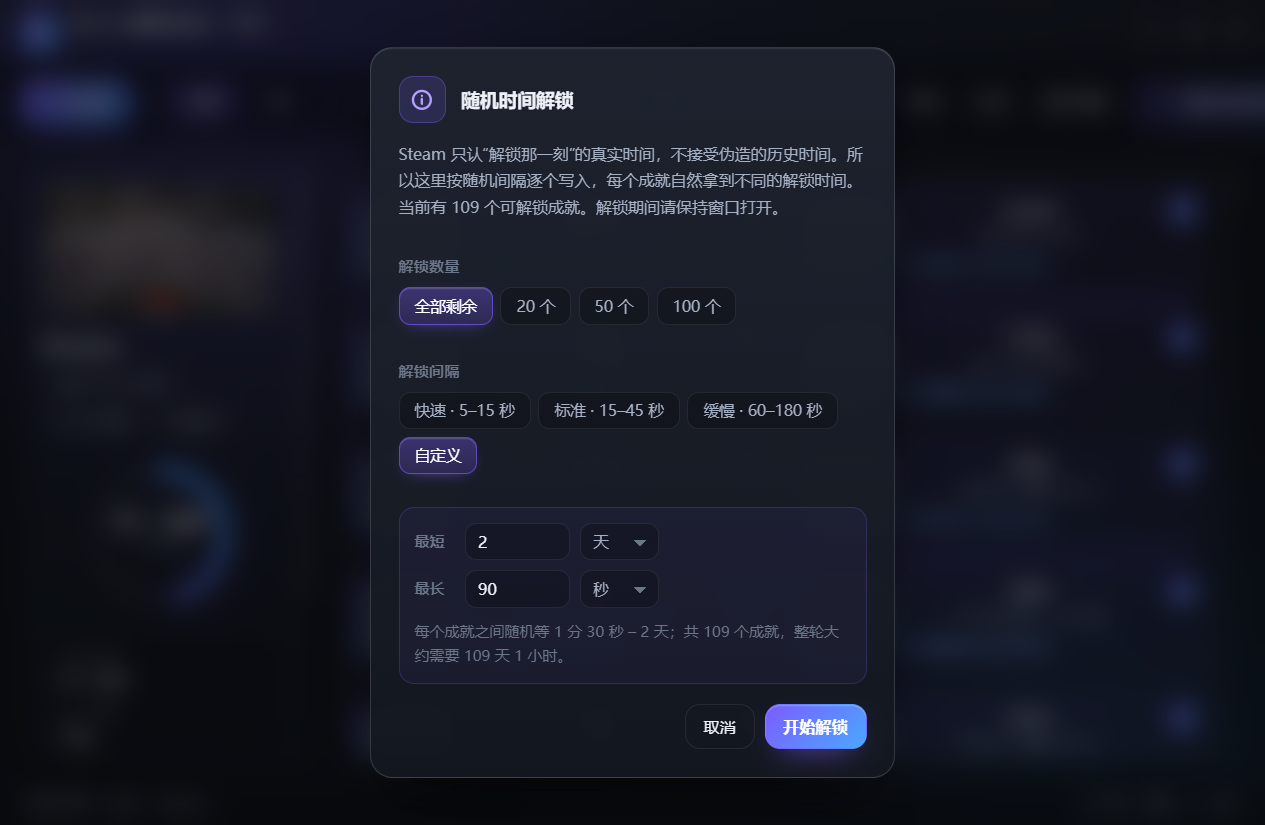
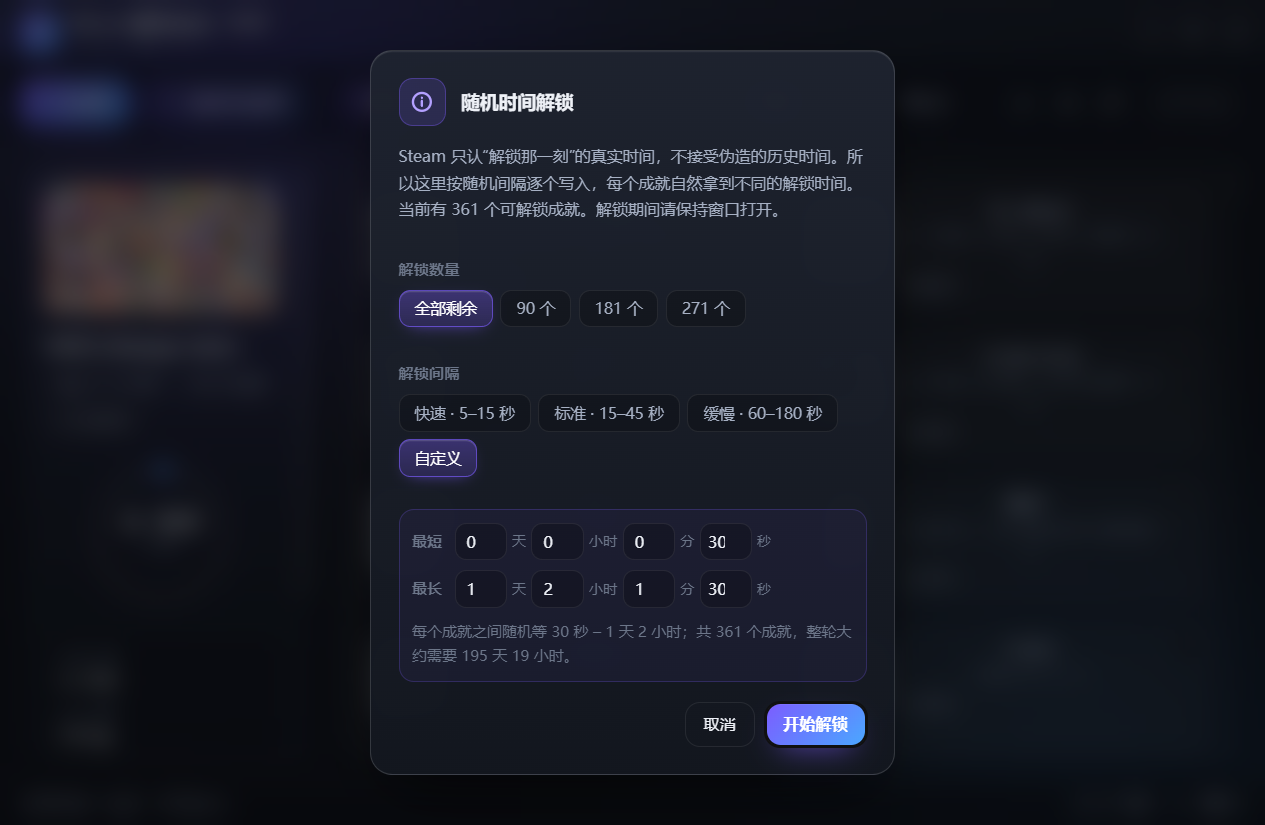
feat: 解锁数量改为剩余数的 1/4、1/2、3/4，自定义间隔改为天/小时/分/秒四段输入

diff --git a/ui/app.js b/ui/app.js
@@ -1202,12 +1202,21 @@
 
   /* ---------- 随机时间解锁 ---------- */
 
-  var RANDOM_COUNTS = [
-    { value: 0, label: '全部剩余' },
-    { value: 20, label: '20 个' },
-    { value: 50, label: '50 个' },
-    { value: 100, label: '100 个' }
-  ];
+  // 解锁数量：全部剩余，以及剩余数的 1/4、2/4、3/4（只显示数字，不显示分数）
+  function countOptions(available) {
+    var out = [{ value: 0, label: '全部剩余' }];
+    var fracs = [0.25, 0.5, 0.75];
+    var seen = { 0: true };
+    for (var i = 0; i < fracs.length; i++) {
+      var n = Math.round(available * fracs[i]);
+      if (n < 1) n = 1;
+      if (n >= available) continue;
+      if (seen[n]) continue;
+      seen[n] = true;
+      out.push({ value: n, label: n + ' 个' });
+    }
+    return out;
+  }
 
   var RANDOM_GAPS = [
     { label: '快速 · 5–15 秒', min: 5, max: 15 },
@@ -1216,22 +1225,28 @@
     { label: '自定义', custom: true }
   ];
 
-  // 自定义间隔的单位：天 / 小时 / 秒
-  var GAP_UNITS = [
-    { unit: 86400, label: '天' },
-    { unit: 3600, label: '小时' },
-    { unit: 1, label: '秒' }
+  // 自定义间隔按「天 / 小时 / 分钟 / 秒」四个输入框填写
+  var GAP_PARTS = [
+    { key: 'd', label: '天', unit: 86400, max: 7 },
+    { key: 'h', label: '小时', unit: 3600, max: 23 },
+    { key: 'm', label: '分', unit: 60, max: 59 },
+    { key: 's', label: '秒', unit: 1, max: 59 }
   ];
 
   var GAP_MAX_SECONDS = 7 * 86400;
 
-  function unitOptions(defaultUnit) {
+  // 把秒数拆成 天 / 小时 / 分 / 秒 四个输入框的初始值
+  function gapPartIndex(seconds) {
+    var s = Math.max(0, Math.round(seconds || 0));
     var out = [];
-    for (var i = 0; i < GAP_UNITS.length; i++) {
-      out.push('<option value="' + GAP_UNITS[i].unit + '"' +
-        (GAP_UNITS[i].unit === defaultUnit ? ' selected' : '') + '>' + GAP_UNITS[i].label + '</option>');
+    for (var i = 0; i < GAP_PARTS.length; i++) {
+      var p = GAP_PARTS[i];
+      var v = Math.floor(s / p.unit);
+      if (v > p.max) v = p.max;
+      s -= v * p.unit;
+      out.push(v);
     }
-    return out.join('');
+    return out;
   }
 
   function fmtGap(seconds) {
@@ -1309,22 +1324,32 @@
       return h.join('');
     }
 
-    parts.push(groupHtml('count', '解锁数量', RANDOM_COUNTS));
+    var counts = countOptions(available);
+
+    parts.push(groupHtml('count', '解锁数量', counts));
     parts.push(groupHtml('gap', '解锁间隔', RANDOM_GAPS));
 
-    // 自定义间隔：最小与最大各一个数字 + 单位（天 / 小时 / 秒）
+    // 自定义间隔：最短 / 最长各填 天、小时、分、秒 四个数字
+    function gapRowHtml(cap, rolePrefix, seconds) {
+      var vs = gapPartIndex(seconds);
+      var h = ['<div class="gap-custom__row">'];
+      h.push('<span class="gap-custom__cap">' + cap + '</span>');
+      for (var i = 0; i < GAP_PARTS.length; i++) {
+        var p = GAP_PARTS[i];
+        h.push('<label class="gap-custom__field">');
+        h.push('<input class="gap-custom__num" type="number" min="0" max="' + p.max + '" step="1" value="' + vs[i] +
+          '" data-role="' + rolePrefix + p.key + '" aria-label="' + cap + p.label + '" />');
+        h.push('<span class="gap-custom__suffix">' + p.label + '</span>');
+        h.push('</label>');
+      }
+      h.push('</div>');
+      return h.join('');
+    }
+
     parts.push('<div class="gap-custom" data-role="customGap" hidden>');
-    parts.push('<div class="gap-custom__row">');
-    parts.push('<span class="gap-custom__cap">最短</span>');
-    parts.push('<input class="gap-custom__num" type="number" min="1" max="9999" step="1" value="30" data-role="gapMin" aria-label="最短间隔" />');
-    parts.push('<select class="gap-custom__unit" data-role="gapMinUnit" aria-label="最短间隔单位">' + unitOptions(1) + '</select>');
-    parts.push('</div>');
-    parts.push('<div class="gap-custom__row">');
-    parts.push('<span class="gap-custom__cap">最长</span>');
-    parts.push('<input class="gap-custom__num" type="number" min="1" max="9999" step="1" value="90" data-role="gapMax" aria-label="最长间隔" />');
-    parts.push('<select class="gap-custom__unit" data-role="gapMaxUnit" aria-label="最长间隔单位">' + unitOptions(1) + '</select>');
-    parts.push('</div>');
-    parts.push('<p class="gap-custom__hint" data-role="gapHint">每个成就之间随机等 30 – 90 秒，合计最少约 30 秒。</p>');
+    parts.push(gapRowHtml('最短', 'gapMin', 30));
+    parts.push(gapRowHtml('最长', 'gapMax', 90));
+    parts.push('<p class="gap-custom__hint" data-role="gapHint"></p>');
     parts.push('</div>');
 
     parts.push('<div class="modal__foot">');
@@ -1336,11 +1361,33 @@
     var prevFocus = document.activeElement;
 
     var customBox = el.querySelector('[data-role="customGap"]');
-    var numMin = el.querySelector('[data-role="gapMin"]');
-    var numMax = el.querySelector('[data-role="gapMax"]');
-    var unitMin = el.querySelector('[data-role="gapMinUnit"]');
-    var unitMax = el.querySelector('[data-role="gapMaxUnit"]');
     var gapHint = el.querySelector('[data-role="gapHint"]');
+    var minInputs = [];
+    var maxInputs = [];
+    for (var pi = 0; pi < GAP_PARTS.length; pi++) {
+      minInputs.push(el.querySelector('[data-role="gapMin' + GAP_PARTS[pi].key + '"]'));
+      maxInputs.push(el.querySelector('[data-role="gapMax' + GAP_PARTS[pi].key + '"]'));
+    }
+
+    function readParts(inputs) {
+      var total = 0;
+      for (var i = 0; i < GAP_PARTS.length; i++) {
+        var v = Number(inputs[i] && inputs[i].value);
+        if (!isFinite(v) || v < 0) v = 0;
+        v = Math.floor(Math.min(v, GAP_PARTS[i].max));
+        total += v * GAP_PARTS[i].unit;
+      }
+      return total;
+    }
+
+    function readCustom() {
+      var lo = readParts(minInputs);
+      var hi = readParts(maxInputs);
+      if (hi < lo) { var t = lo; lo = hi; hi = t; }
+      lo = Math.max(1, Math.min(GAP_MAX_SECONDS, lo));
+      hi = Math.max(lo, Math.min(GAP_MAX_SECONDS, hi));
+      return { minGap: lo, maxGap: hi, gapMid: Math.round((lo + hi) / 2) };
+    }
 
     function syncCustom() {
       if (!customBox) return;
@@ -1349,24 +1396,11 @@
       if (!isCustom) return;
       var lo = readCustom();
       if (gapHint) {
-        var picked = RANDOM_COUNTS[sel.count] || RANDOM_COUNTS[0];
+        var picked = counts[sel.count] || counts[0];
         var n = picked.value > 0 ? Math.min(picked.value, available) : available;
         gapHint.textContent = '每个成就之间随机等 ' + fmtGap(lo.minGap) + ' – ' + fmtGap(lo.maxGap) +
           '；共 ' + n + ' 个成就，整轮大约需要 ' + fmtGap(n * lo.gapMid) + '。';
       }
-    }
-
-    function readCustom() {
-      var a = Math.max(1, Math.min(9999, Number(numMin && numMin.value) || 1));
-      var b = Math.max(1, Math.min(9999, Number(numMax && numMax.value) || 1));
-      var ua = Number(unitMin && unitMin.value) || 1;
-      var ub = Number(unitMax && unitMax.value) || 1;
-      var lo = a * ua;
-      var hi = b * ub;
-      if (hi < lo) { var t = lo; lo = hi; hi = t; }
-      lo = Math.max(1, Math.min(GAP_MAX_SECONDS, Math.round(lo)));
-      hi = Math.max(lo, Math.min(GAP_MAX_SECONDS, Math.round(hi)));
-      return { minGap: lo, maxGap: hi, gapMid: Math.round((lo + hi) / 2) };
     }
 
     if (customBox) {
@@ -1397,7 +1431,7 @@
       }
       if (role === 'ok') {
         var gap = RANDOM_GAPS[sel.gap] || RANDOM_GAPS[1];
-        var entry = RANDOM_COUNTS[sel.count] || RANDOM_COUNTS[0];
+        var entry = counts[sel.count] || counts[0];
         var lo = gap.custom ? readCustom().minGap : gap.min;
         var hi = gap.custom ? readCustom().maxGap : gap.max;
         startRandomUnlock({ count: entry.value, minGap: lo, maxGap: hi, delay: Math.min(5, lo) });
@@ -1408,6 +1442,7 @@
     els.modalRoot.appendChild(el);
     setHidden(els.modalRoot, false);
     modalState = { el: el, prevFocus: prevFocus };
+    syncCustom();
     window.setTimeout(function () {
       var ok = el.querySelector('[data-role="ok"]');
       if (ok && ok.focus) ok.focus();

diff --git a/ui/app.css b/ui/app.css
@@ -1423,7 +1423,7 @@ svg {
 
 .gap-custom {
   margin-top: 12px;
-  padding: 12px;
+  padding: 10px;
   border-radius: var(--r-md);
   border: 1px solid rgba(124, 92, 255, 0.24);
   background: rgba(124, 92, 255, 0.06);
@@ -1438,20 +1438,33 @@ svg {
 .gap-custom__row {
   display: flex;
   align-items: center;
-  gap: 8px;
+  flex-wrap: wrap;
+  gap: 6px 4px;
 }
 
 .gap-custom__cap {
-  flex: 0 0 32px;
+  flex: 0 0 30px;
   font-size: 12px;
   font-weight: 600;
   color: var(--text-3);
 }
 
+.gap-custom__field {
+  display: inline-flex;
+  align-items: center;
+  gap: 4px;
+}
+
+.gap-custom__suffix {
+  font-size: 11.5px;
+  color: var(--text-3);
+}
+
 .gap-custom__num {
-  width: 84px;
+  width: 42px;
   height: 30px;
-  padding: 0 10px;
+  padding: 0 6px;
+  text-align: center;
   border-radius: 9px;
   border: 1px solid var(--line);
   background: var(--surface-sunk);
@@ -1465,36 +1478,6 @@ svg {
 .gap-custom__num:focus {
   border-color: rgba(124, 92, 255, 0.62);
   box-shadow: 0 0 0 3px rgba(124, 92, 255, 0.16);
-}
-
-.gap-custom__unit {
-  height: 30px;
-  padding: 0 26px 0 10px;
-  border-radius: 9px;
-  border: 1px solid var(--line);
-  background: var(--surface-sunk);
-  color: var(--text-2);
-  font-size: 12.5px;
-  font-weight: 500;
-  cursor: pointer;
-  outline: 0;
-  -webkit-appearance: none;
-  appearance: none;
-  background-image: linear-gradient(45deg, transparent 50%, var(--text-3) 50%),
-    linear-gradient(135deg, var(--text-3) 50%, transparent 50%);
-  background-position: calc(100% - 14px) 13px, calc(100% - 9px) 13px;
-  background-size: 5px 5px, 5px 5px;
-  background-repeat: no-repeat;
-}
-
-.gap-custom__unit:focus {
-  border-color: rgba(124, 92, 255, 0.62);
-  box-shadow: 0 0 0 3px rgba(124, 92, 255, 0.16);
-}
-
-.gap-custom__unit option {
-  background: #171a22;
-  color: var(--text);
 }
 
 .gap-custom__hint {

diff --git a/README.md b/README.md
@@ -42,7 +42,7 @@
 | 封面 | 候选链回落：本地 `appcache\librarycache`（header → capsule → hero → 600x900）→ Steam CDN → 字母占位。个别新游戏只有 `library_hero.jpg`，也能显示 |
 | 成就页 | 卡片网格展示全部成就（名称、描述、隐藏标记、解锁时间），单卡勾选切换状态 |
 | 批量操作 | 全选 / 反选 / 锁定全部 —— 只在界面内暂存，按「保存改动」或 `Ctrl+S` 才写入 Steam |
-| 随机时间解锁 | 工具栏最左侧的紫色按钮。按随机间隔逐个真实解锁：预设快速 5–15 秒 / 标准 15–45 秒 / 缓慢 60–180 秒，也可自定义最短–最长间隔（单位可选**天 / 小时 / 秒**，上限 7 天），弹窗会实时估算整轮耗时。每解锁一个立刻单独 `StoreStats()`，因此每个成就都由 Steam 记下各自的真实时间，不会全部挤在同一秒。可限定数量（全部剩余 / 20 / 50 / 100），进度条实时显示，随时可停 |
+| 随机时间解锁 | 工具栏最左侧的紫色按钮。按随机间隔逐个真实解锁：预设快速 5–15 秒 / 标准 15–45 秒 / 缓慢 60–180 秒，也可自定义最短–最长间隔（分别填**天 / 小时 / 分钟 / 秒**四个数值，单个间隔上限 7 天），弹窗会实时估算整轮耗时。每解锁一个立刻单独 `StoreStats()`，因此每个成就都由 Steam 记下各自的真实时间，不会全部挤在同一秒。解锁数量可选「全部剩余」或剩余数的 1/4、1/2、3/4（按实际成就数换算成具体个数显示），进度条实时显示，随时可停 |
 | 统计页 | 可编辑数值表格，显示取值范围（`≥ 0`、`不限`）与「只增 / 受保护」标记 |
 | 进度环 | 左侧实时显示解锁进度（例 `91 / 200 · 45.5%`） |
 | 重置 | 二次确认弹窗，可选「同时清除全部成就的解锁状态」 |

diff --git a/使用说明.md b/使用说明.md
@@ -32,7 +32,7 @@
 | 统计管理 | 整数/浮点直接编辑，显示取值范围（≥ 0 / 不限）与「只增 / 受保护」标记 |
 | 保存 | 只提交改动项，写回 Steam 后自动刷新并弹出「已保存」提示 |
 | 重置 | 二次确认弹窗，可选是否同时清除全部成就的解锁状态 |
-| 随机时间解锁 | 工具栏最左侧的「随机时间解锁」按钮：选择解锁数量（全部剩余 / 20 / 50 / 100）与间隔——预设快速 5–15 秒 / 标准 15–45 秒 / 缓慢 60–180 秒，或选「自定义」后自己填最短与最长间隔，单位支持**天 / 小时 / 秒**（单个间隔上限 7 天），弹窗底部会实时算出整轮大约需要多久。程序按随机间隔逐个真实解锁，每个成就拿到各自的解锁时间。进度条实时显示，点「停止」或按 Esc 可中止（已解锁的不回滚） |
+| 随机时间解锁 | 工具栏最左侧的「随机时间解锁」按钮：解锁数量可选「全部剩余」，或剩余数的 1/4、1/2、3/4（按钮上直接显示换算后的成就个数）；间隔可选预设快速 5–15 秒 / 标准 15–45 秒 / 缓慢 60–180 秒，或选「自定义」后分别填写**天 / 小时 / 分钟 / 秒**四个数值来指定最短与最长间隔（单个间隔上限 7 天），弹窗底部会实时算出整轮大约需要多久。程序按随机间隔逐个真实解锁，每个成就拿到各自的解锁时间。进度条实时显示，点「停止」或按 Esc 可中止（已解锁的不回滚） |
 | 受保护项 | 权限位含保护的成就自动跳过并提示（与原版一致） |
 | 搜索筛选 | 游戏搜索 + 类型筛选；成就搜索 + 全部/已解锁/未解锁 |
 | 返回游戏库 | 游戏界面左上角紫色「← 游戏库」按钮；Esc、标题栏左上角奖杯图标也可返回 |
